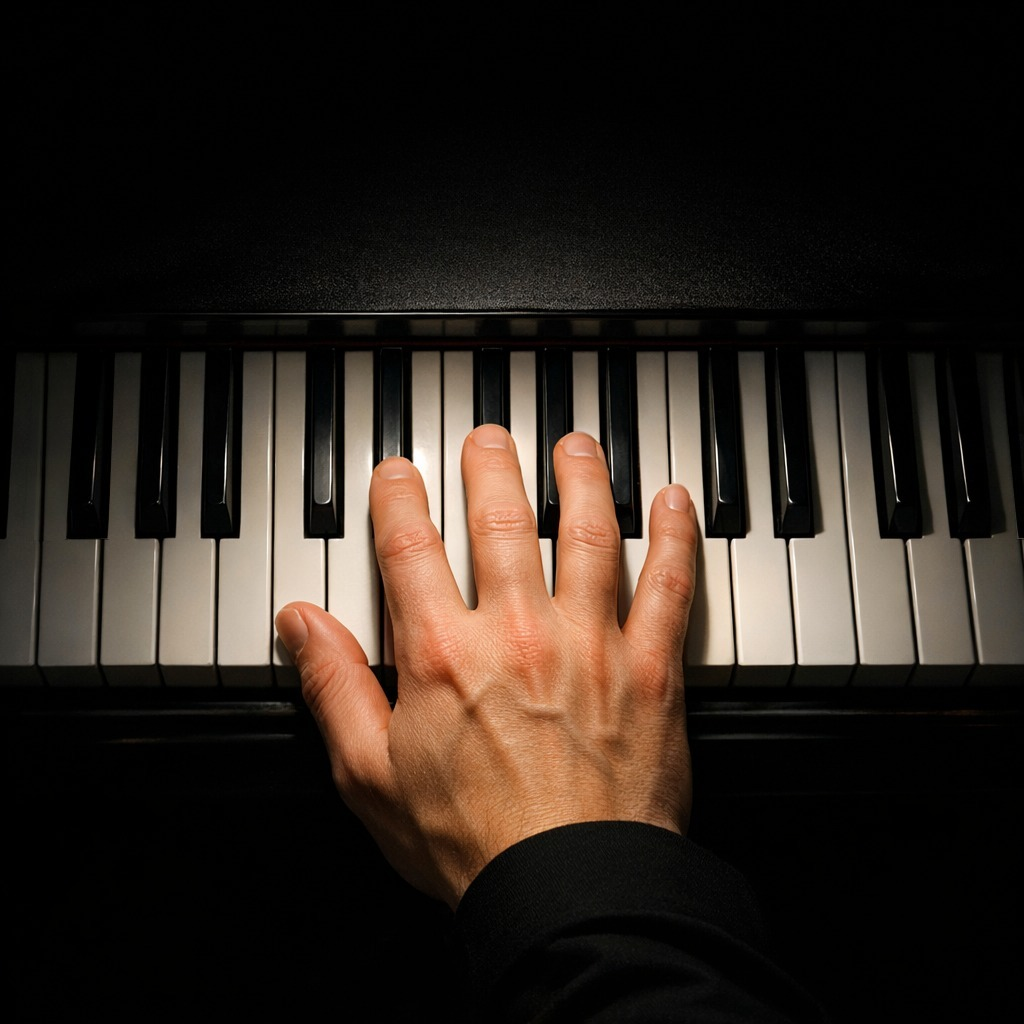
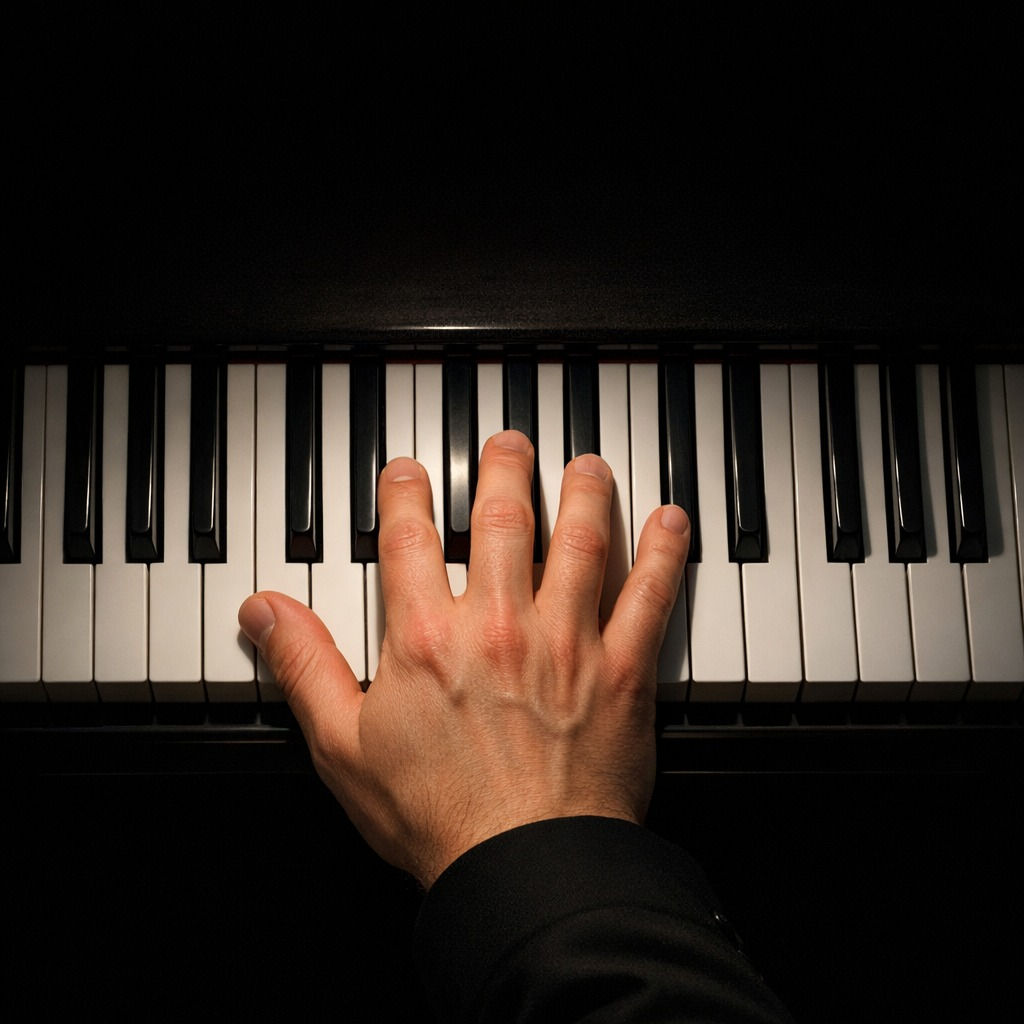
Pianist's hand: a new generated photograph with a real keyboard, not a retouch
The first ChatGPT picture had a keyboard no piano has (two pairs of black keys side by side); its
retouch was replaced by a fresh one. Four candidates came from chatgpt-image-latest with a prompt that
spells out the pattern (black keys alternating in twos and threes); only one read 3-2-3-2-3 at every
depth, and that one is kept untouched. Its nails were marked and checked (tips in right-hand.json, the
keys' top edge at 0.337). test_keyboard, test_picture and test_anchors pass on it.

Changed region(s): [[0.0, 0.2188, 1.0, 0.875]]

diff --git a/Tools/SongLibrary/README.md b/Tools/SongLibrary/README.md
@@ -322,9 +322,10 @@ landscape one. The card is cut from the photograph to fill that part of the scre
 sharpness: the fingertips with room round them, the knuckles, and the dark ground above the keys that the labels need.
 
 The photograph, `Assets/Resources/PianistHand/right-hand.jpg`, was generated with OpenAI's `chatgpt-image-latest`;
-its prompt, date and settings are under `source` in `right-hand.json` beside it. The generator drew a keyboard no
-piano has (two pairs of black keys side by side), so the picture was retouched: the stray black key moved one key to
-the right, and the A# at the right edge added (`source.retouched` says what changed). That file also says where the
+its prompt, date and settings are under `source` in `right-hand.json` beside it. Image generators often draw a
+keyboard no piano has (the first picture had two pairs of black keys side by side), so four were generated with a
+prompt that spells out the pattern, and the one whose black keys alternate in twos and threes was kept, untouched
+(`source.chosen`). That file also says where the
 fingertips are: `tips`, the centre of each nail as `[x, y]`, fractions of the picture's width and height from its
 top-left corner, for fingers `"1"` to `"5"`; `side`, the hand it shows; and `keyboardTop`, the fraction of the height
 above which the picture is dark enough for the labels. To replace the photograph, overwrite the JPEG in place (so its
